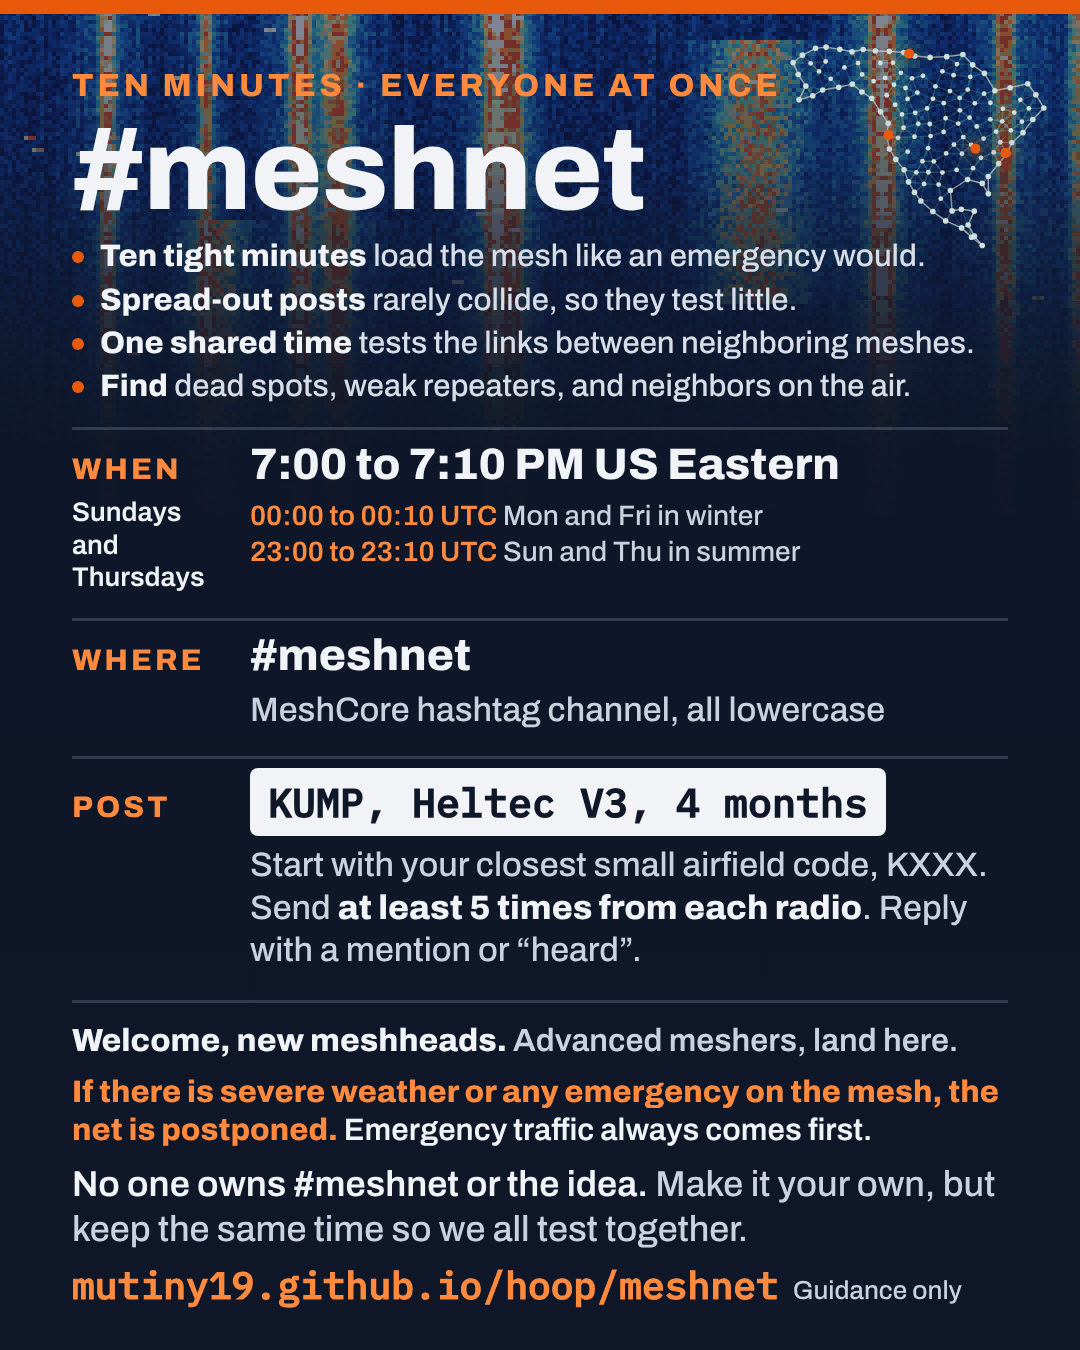
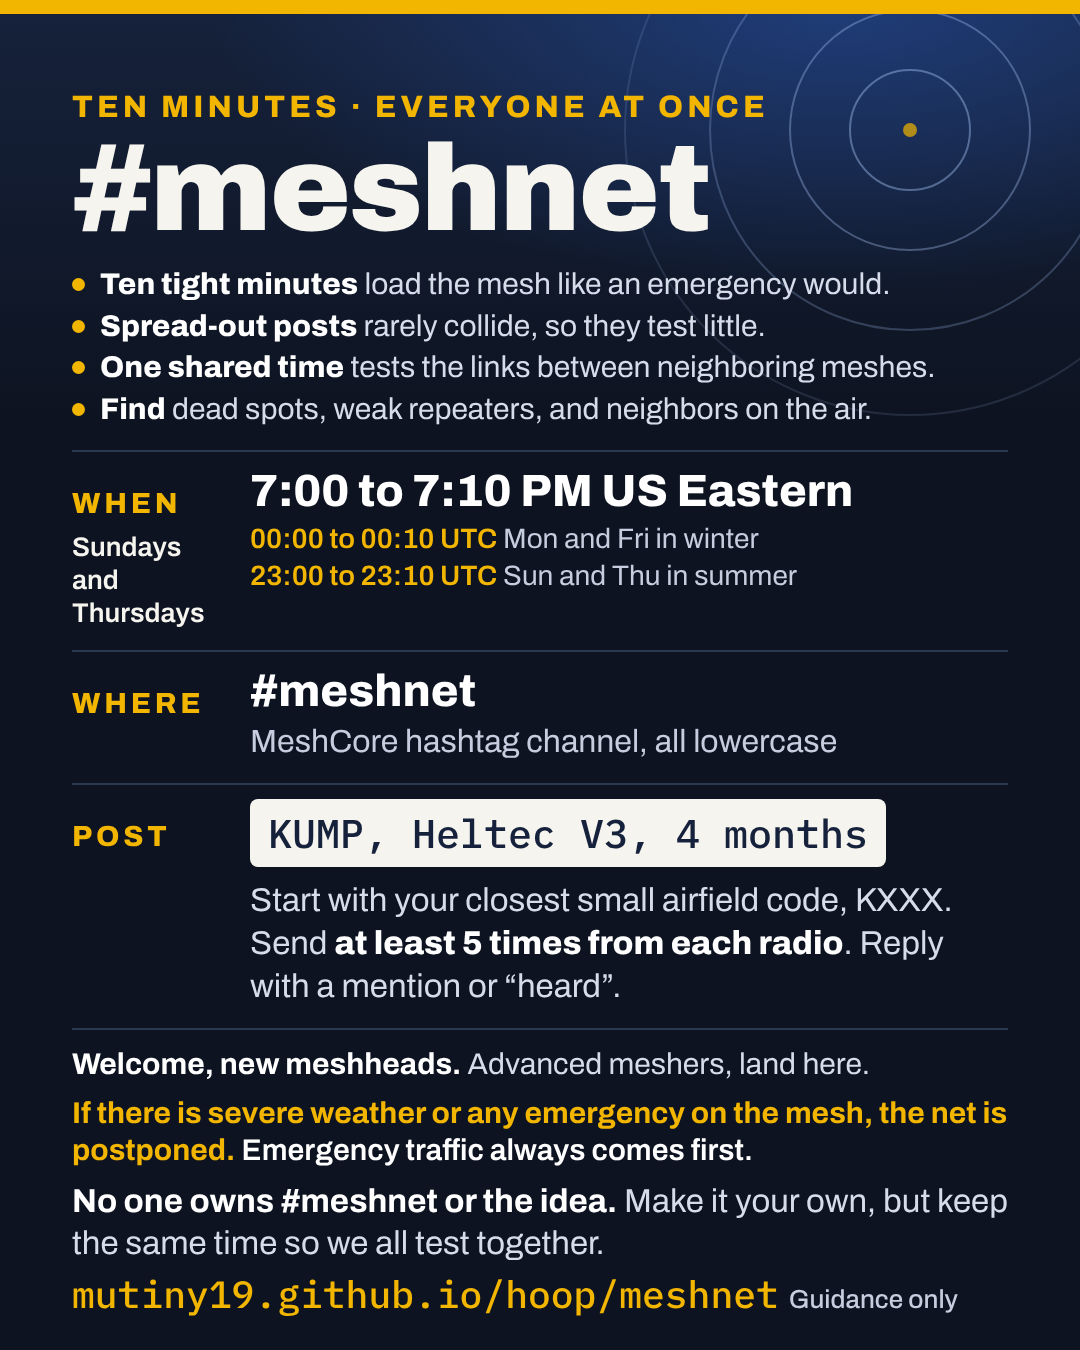
#meshnet invites in the site's colors; area channels marked unconfirmed
The two invite images keep their filenames and wording and take the
navy and gold look, with no site logo since nobody owns #meshnet. The
layout and the script that renders them are in tools/.
On the MeshCore card, only #nei is marked confirmed by its local group.

Claude-Session: https://claude.ai/code/session_01WD4jFhUxvP5nJsd9kdkoez

diff --git a/tools/meshnet_invite.html b/tools/meshnet_invite.html
@@ -1,0 +1,54 @@
+<!doctype html><html><head><meta charset="utf-8"><style>
+@font-face { font-family: Archivo; src: url(FONTS/archivo.woff2) format("woff2"); font-weight: 100 900; }
+@font-face { font-family: Plex; src: url(FONTS/plex-mono-500.woff2) format("woff2"); font-weight: 500; }
+* { box-sizing: border-box; margin: 0; }
+body { width: 1080px; height: 1350px; background: #0D1320; color: #F6F4EE; font-family: Archivo, sans-serif; position: relative; overflow: hidden; }
+.bar { height: 14px; background: #F2B500; position: relative; z-index: 3; }
+.glow { position: absolute; inset: 0 0 auto 0; height: 430px; background: radial-gradient(900px 420px at 78% 0%, rgba(35,71,143,.75), rgba(13,19,32,0) 70%), linear-gradient(#16223C, #0D1320); z-index: 0; }
+.rings { position: absolute; right: -150px; top: -190px; width: 640px; height: 640px; z-index: 0; opacity: .7; }
+.mark { position: absolute; right: 84px; top: 44px; width: 109px; height: 170px; z-index: 1; }
+main { position: relative; z-index: 2; padding: 76px 72px 0; }
+.eyebrow { font-weight: 800; font-size: 31px; letter-spacing: .13em; color: #F2B500; }
+h1 { font-size: 122px; font-weight: 900; line-height: 1.02; letter-spacing: -.02em; margin-top: 4px; }
+ul { list-style: none; padding: 0; margin-top: 12px; font-size: 30px; line-height: 1.38; color: #D6DCEA; }
+li::before { content: ""; display: inline-block; width: 13px; height: 13px; border-radius: 50%; background: #F2B500; margin-right: 15px; transform: translateY(-3px); }
+li b { color: #fff; font-weight: 800; }
+.row { display: grid; grid-template-columns: 178px 1fr; border-top: 2px solid #2B3852; padding: 14px 0 20px; margin-top: 20px; }
+.row + .row { margin-top: 0; }
+.k { font-weight: 800; font-size: 29px; letter-spacing: .13em; color: #F2B500; padding-top: 22px; }
+.k small { display: block; font-weight: 600; font-size: 27px; letter-spacing: 0; color: #F6F4EE; line-height: 1.22; margin-top: 12px; }
+.big { font-size: 45px; font-weight: 800; color: #fff; }
+.v p { font-size: 28px; color: #C5CDDE; line-height: 1.32; margin-top: 6px; }
+.v p .u { color: #F2B500; font-weight: 600; }
+.code { display: inline-block; background: #F6F4EE; color: #16223C; font: 500 40px/1 Plex, monospace; padding: 14px 18px; border-radius: 8px; }
+.v p.l { font-size: 33px; color: #D6DCEA; line-height: 1.3; margin-top: 12px; }
+.v p.l b { color: #fff; font-weight: 800; }
+.foot { border-top: 2px solid #2B3852; margin-top: 0; padding-top: 16px; font-size: 30px; line-height: 1.26; color: #D6DCEA; }
+.foot p { margin-bottom: 11px; }
+.foot b { color: #fff; font-weight: 700; }
+.foot .warn b { color: #F2B500; }
+.foot .own { font-size: 33px; }
+.url { font: 500 38px/1 Plex, monospace; color: #F2B500; white-space: nowrap; }
+.url small { font: 500 26px/1 Archivo, sans-serif; color: #C5CDDE; margin-left: 10px; }
+</style></head><body>
+<div class="bar"></div><div class="glow"></div>
+<svg class="rings" viewBox="0 0 640 640" fill="none" stroke="#A9C6F5" stroke-width="2"><circle cx="320" cy="320" r="7" fill="#F2B500" stroke="none"/><circle cx="320" cy="320" r="60" opacity=".6"/><circle cx="320" cy="320" r="120" opacity=".5"/><circle cx="320" cy="320" r="200" opacity=".35"/><circle cx="320" cy="320" r="285" opacity=".2"/></svg>
+<main>
+  <div class="eyebrow">TEN MINUTES · EVERYONE AT ONCE</div>
+  <h1>#meshnet</h1>
+  <ul>
+    <li><b>Ten tight minutes</b> load the mesh like an emergency would.</li>
+    <li><b>Spread-out posts</b> rarely collide, so they test little.</li>
+    <li><b>One shared time</b> tests the links between neighboring meshes.</li>
+    <li><b>Find</b> dead spots, weak repeaters, and neighbors on the air.</li>
+  </ul>
+  <div class="row"><div class="k">WHEN<small>Sundays<br>and<br>Thursdays</small></div><div class="v"><div class="big">7:00 to 7:10 PM US Eastern</div>WHENLINES</div></div>
+  <div class="row"><div class="k">WHERE</div><div class="v"><div class="big">#meshnet</div><p style="font-size:32px">MeshCore hashtag channel, all lowercase</p></div></div>
+  <div class="row"><div class="k">POST</div><div class="v"><span class="code">KUMP, Heltec V3, 4 months</span><p class="l">Start with your closest small airfield code, KXXX. Send <b>at least 5 times from each radio</b>. Reply with a mention or “heard”.</p></div></div>
+  <div class="foot">
+    <p><b>Welcome, new meshheads.</b> Advanced meshers, land here.</p>
+    <p class="warn"><b>If there is severe weather or any emergency on the mesh, the net is postponed.</b> <span style="color:#fff;font-weight:600">Emergency traffic always comes first.</span></p>
+    <p class="own"><b>No one owns #meshnet or the idea.</b> Make it your own, but keep the same time so we all test together.</p>
+    <div class="url">mutiny19.github.io/hoop/meshnet<small>Guidance only</small></div>
+  </div>
+</main></body></html>

diff --git a/meshnet/index.html b/meshnet/index.html
@@ -239,8 +239,8 @@ td.mono { font-family: var(--mono); white-space: nowrap; }
     <p>The goal is to get you connected before the mesh is most needed, and to explore and experiment with the technology.</p>
     <p>The image and the text each stand on their own, so use either or both.</p>
     <div class="share">
-      <figure><a href="../assets/meshnet-invite.png" download="meshnet-invite.png"><img src="../assets/meshnet-invite.png" alt="#meshnet invite: Sundays and Thursdays, 7:00 to 7:10 PM US Eastern, with times for other North American zones and UTC, on the #meshnet MeshCore hashtag channel. Start with your closest small airfield code; send at least five times from each radio." width="1080" height="1350" loading="lazy"></a><figcaption><a href="../assets/meshnet-invite.png" download="meshnet-invite.png">Download</a> · North American time zones</figcaption></figure>
-      <figure><a href="../assets/meshnet-invite-utc.png" download="meshnet-invite-utc.png"><img src="../assets/meshnet-invite-utc.png" alt="#meshnet invite with the time in US Eastern and UTC for winter and summer." width="1080" height="1350" loading="lazy"></a><figcaption><a href="../assets/meshnet-invite-utc.png" download="meshnet-invite-utc.png">Download</a> · UTC for both seasons</figcaption></figure>
+      <figure><a href="../assets/meshnet-invite.png" download="meshnet-invite.png"><img src="../assets/meshnet-invite.png?v=2" alt="#meshnet invite: Sundays and Thursdays, 7:00 to 7:10 PM US Eastern, with times for other North American zones and UTC, on the #meshnet MeshCore hashtag channel. Start with your closest small airfield code; send at least five times from each radio." width="1080" height="1350" loading="lazy"></a><figcaption><a href="../assets/meshnet-invite.png" download="meshnet-invite.png">Download</a> · North American time zones</figcaption></figure>
+      <figure><a href="../assets/meshnet-invite-utc.png" download="meshnet-invite-utc.png"><img src="../assets/meshnet-invite-utc.png?v=2" alt="#meshnet invite with the time in US Eastern and UTC for winter and summer." width="1080" height="1350" loading="lazy"></a><figcaption><a href="../assets/meshnet-invite-utc.png" download="meshnet-invite-utc.png">Download</a> · UTC for both seasons</figcaption></figure>
     </div>
     <div class="invite">
       <div class="head"><b>Text version</b><button class="copy" type="button" data-copy="invite-text">Copy</button></div>

diff --git a/tools/meshnet_invite.js b/tools/meshnet_invite.js
@@ -1,0 +1,13 @@
+// Renders the two #meshnet invite images (assets/meshnet-invite.png and -utc.png) from tools/meshnet_invite.html.
+// Run by hand when the wording, time, or colors change; needs Node with Playwright installed:
+//     node tools/meshnet_invite.js
+// Keep the filenames, then bump the ?v= on the images in meshnet/index.html.
+const { chromium } = require('playwright'); const fs=require('fs'); const path=require('path');
+(async () => { const repo=path.resolve(__dirname,'..'), S=require('os').tmpdir(); const tpl=fs.readFileSync(path.join(__dirname,'meshnet_invite.html'),'utf8').replaceAll('FONTS','file://'+repo+'/assets/fonts').replace('MARK','file://'+repo+'/assets/mark.svg');
+ const v={ 'meshnet-invite': '<p>6:00–6:10 Central · 5:00–5:10 Mountain<br>4:00–4:10 Pacific · 3:00–3:10 Alaska<br><span class="u">UTC</span> 00:00–00:10 Mon/Fri · 23:00–23:10 Sun/Thu summer</p>',
+           'meshnet-invite-utc': '<p><span class="u">00:00 to 00:10 UTC</span> Mon and Fri in winter<br><span class="u">23:00 to 23:10 UTC</span> Sun and Thu in summer</p>' };
+ const b = await chromium.launch({args:['--allow-file-access-from-files']}); const p = await b.newPage({ viewport:{width:1080,height:1350}, deviceScaleFactor:1 });
+ for (const k in v) { const f=path.join(S,k+'.html'); fs.writeFileSync(f, tpl.replace('WHENLINES', v[k])); await p.goto('file://'+f); await p.waitForTimeout(700);
+  const h = await p.evaluate(()=>document.querySelector('main').getBoundingClientRect().bottom); console.log(k,'content bottom',Math.round(h));
+  await p.screenshot({path:path.join(repo,'assets',k+'.png')}); }
+ await b.close(); })();

diff --git a/assets/home.js b/assets/home.js
@@ -438,7 +438,7 @@
             ["Path hash size", "2 bytes. This is the one Indiana convention on top of the preset; the MeshCore FAQ shows how to change it"],
             ["Region / scope", "Rarely used; ask your local group before setting one"],
             ["Channels", "Public is built in. Add:", null, ["#porchlight", "#emergency", "#meshcore", "#skywarn", "#weather", "#wx", "#test"]],
-            ["Area channels", "Channels people report using, by area. Most are named for the nearest airport; #nei is NEIMesh's for northeast Indiana, and #nwi is northwest Indiana. Your local group's own list wins:", null, ["#ind", "#nei", "#sbn", "#evv", "#laf", "#bmg", "#huf", "#mie", "#nwi", "#sdf", "#cvg"]],
+            ["Area channels", "By area, named for the nearest airport (#nwi is northwest Indiana). Only #nei is confirmed, by NEIMesh for northeast Indiana; the rest are unconfirmed until a local group says so. Your local group's own list wins:", null, ["#ind", "#nei", "#sbn", "#evv", "#laf", "#bmg", "#huf", "#mie", "#nwi", "#sdf", "#cvg"]],
             ["First thing to send", "A flood advert, so people and repeaters learn about you"]
           ]
         },

diff --git a/sw.js b/sw.js
@@ -2,7 +2,7 @@
    Scripts, styles, fonts and images: the saved copy at once, refreshed in the background.
    data/*.json: network first, saved copy when offline. Anything on another site (weather, maps) is left alone.
    Bump CACHE when the list below changes, and whenever a script or stylesheet changes. */
-var CACHE = "hoop-v39";
+var CACHE = "hoop-v40";
 var PRECACHE = ["./", "meshcore/", "meshnet/", "emergency/", "live/", "projects/", "channels/", "gifts/",
   "assets/site.css", "assets/site.js", "assets/theme.js", "assets/home.js", "assets/nets.js", "assets/chirps.js",
   "assets/fonts/archivo.woff2", "assets/fonts/plex-mono-400.woff2", "assets/fonts/plex-mono-500.woff2",

diff --git a/index.html b/index.html
@@ -565,7 +565,7 @@ p { margin: 0; }
 
 <script>(function(){try{if(window.matchMedia("(min-width: 861px)").matches)["reportFold","layerFold"].forEach(function(i){var d=document.getElementById(i);if(d)d.open=true;});}catch(e){}})();</script>
 <script src="assets/nets.js?v=20261111w"></script>
-<script src="assets/home.js?v=20261118f"></script>
+<script src="assets/home.js?v=20261118g"></script>
 <script src="assets/chirps.js?v=20261111t"></script>
 <script src="assets/site.js?v=20261112c"></script>
 </body>

diff --git a/CLAUDE.md b/CLAUDE.md
@@ -68,7 +68,7 @@ before `builder.js` and `modes.js`.
 - Site name, Discord invite, repo URL: they appear in the header and footer of every page.
   `grep -rl "discord.gg" --include=*.html .` finds them all; `FORKING.md` has the checklist.
 - Region tags, metros, groups' tags: edit `advanced/regions.js` only.
-- Area channels on the MeshCore card are channels people report using, not a naming rule HOOP sets. When a local group publishes its own channel (NEIMesh uses `#nei`, not `#fwa`), show theirs.
+- Area channels on the MeshCore card are channels people report using, not a naming rule HOOP sets. When a local group publishes its own channel (NEIMesh uses `#nei`, not `#fwa`), show theirs. The card says which are confirmed by a local group (so far only `#nei`); the rest stay labelled unconfirmed until one is.
 - Nearby groups: the table on `meshcore/index.html`, the state cells below it, and step 4 of the
   Abbreviated mode on `advanced/index.html`.
 - **Where a fact lives (three tiers).** (1) Values a source publishes in machine-readable form are read live or nightly and shown with their source and date (the MeshCore radio preset, the repeater inventory, weather alerts). (2) Facts only this site holds (the Indiana channels and settings people use, region tags groups publish, #meshnet) are kept here. (3) Everything an official source explains is one line and a link, never a paraphrase; add that source to `data/sources.json` so `tools/watch_sources.py` (weekly, `sources.yml`) records when it last changed and opens one self-clearing issue when it does. Before adding a site, read its `/robots.txt`; leave out any that disallows the page, and check those by hand. Definitions live once, in the glossary on `meshcore/`; steps point to it.
@@ -77,7 +77,7 @@ before `builder.js` and `modes.js`.
   `meshnet/`. It is a small site; a second description is just a second thing to keep in sync.
 - Ham nets statewide come from Indiana Ham Radio's open data (`https://indianahamradio.com/data/nets.json`; their terms: use it freely, and tell them when one is wrong). `tools/update_ham_nets.py` (weekly, `hamnets.yml`) converts it to HOOP's net format in `data/ham-nets.json`: Eastern time, no club or sponsor fields, callsigns dropped from names, nets without a set time counted but not listed, and nets HOOP already lists left out, with any disagreement recorded in `differs` and shown beside HOOP's row. Never edit that file by hand; corrections to those nets go to Indiana Ham Radio. Only the schedule on `channels/#nets` shows them; the map's list and the CHIRP notes stay on HOOP's own list.
 - Nets: `data/nets.json` is the one list. It keeps its ham nets even where Indiana Ham Radio's feed has the same net, because HOOP's entry carries more (the repeater site for the reach circle, the tone, the note on the CHIRP row); the feed only adds the nets HOOP does not have. Three views read it and nothing else: the next nets beside the home map, the notes on each repeater in the CHIRP table, and the full "Every net, by day" schedule on `channels/#nets`. `assets/nets.js` holds the shared schedule and link helpers (`Nets.linkOf`). Never add a second copy of a net anywhere; the printable PDF card is built separately and can lag. An optional `link` on a net is its own public page (a club or net website, never a personal page); the home page shows it under the net, and shows a prefilled "add one" issue link when there is none. Suggested settings: `data/settings/*.json`.
-- #meshnet times live in several places: `data/nets.json` (the schedule shown on the map) and the constants at the top of `tools/meshnet_log.py` plus the crons in `meshnet.yml`, plus the time-zone script at the bottom of `meshnet/index.html` (`at7`), plus the share images `assets/meshnet-invite*.png` and the text invite in the page's "Share the invite" section. Change them together.
+- #meshnet times live in several places: `data/nets.json` (the schedule shown on the map) and the constants at the top of `tools/meshnet_log.py` plus the crons in `meshnet.yml`, plus the time-zone script at the bottom of `meshnet/index.html` (`at7`), plus the share images `assets/meshnet-invite*.png` (rendered by `tools/meshnet_invite.js` from `tools/meshnet_invite.html`, in the site's navy and gold with no HOOP logo, since nobody owns #meshnet; keep the filenames and bump the `?v=` on the page when they change) and the text invite in the page's "Share the invite" section. Change them together.
 - After changing `assets/home.js`, `assets/chirps.js`, `assets/theme.js`, or `assets/site.js`, bump the `?v=` on their script tags on every page that loads them; GitHub Pages and browsers cache them hard. Do the same for `assets/nets.js` and `assets/site.css`, and bump `CACHE` in `sw.js` in the same commit: returning visitors are served saved copies by the service worker, and a page that gets a new script next to an old saved one breaks.
 
 ## Testing
